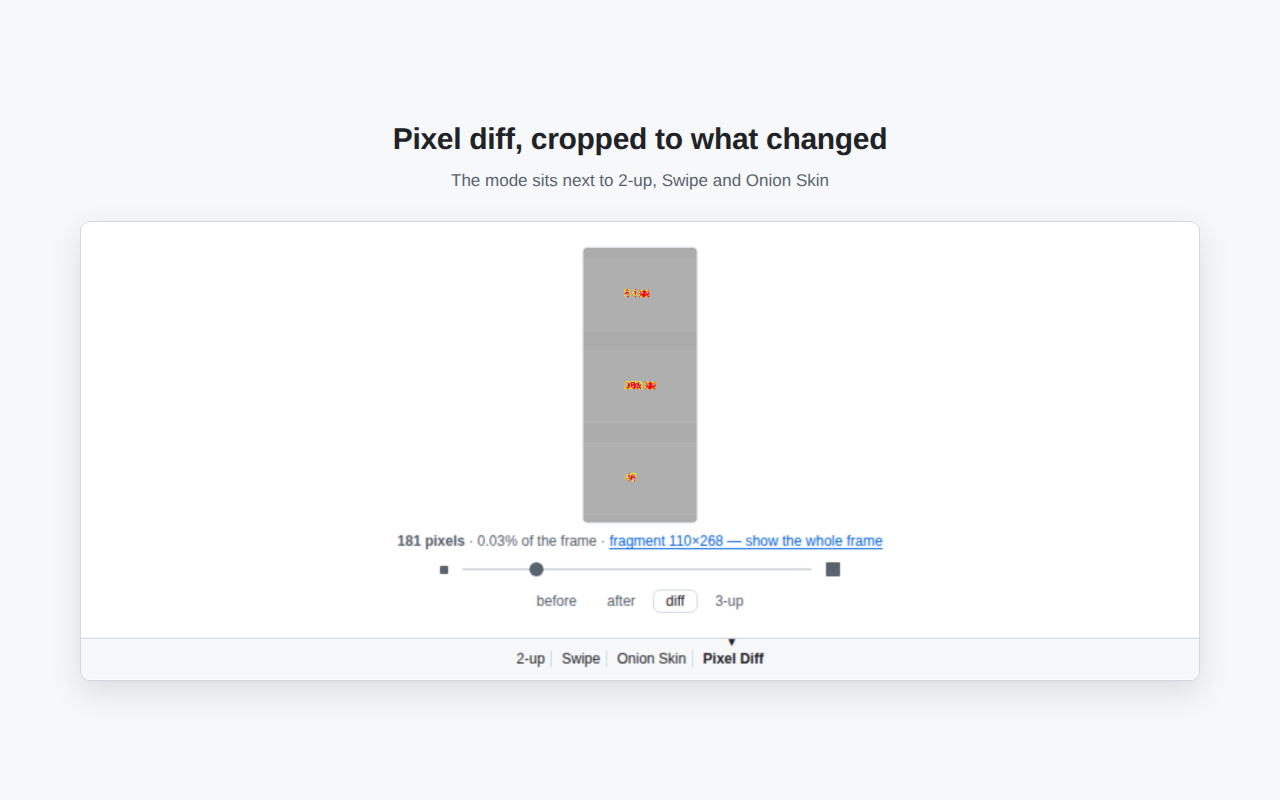
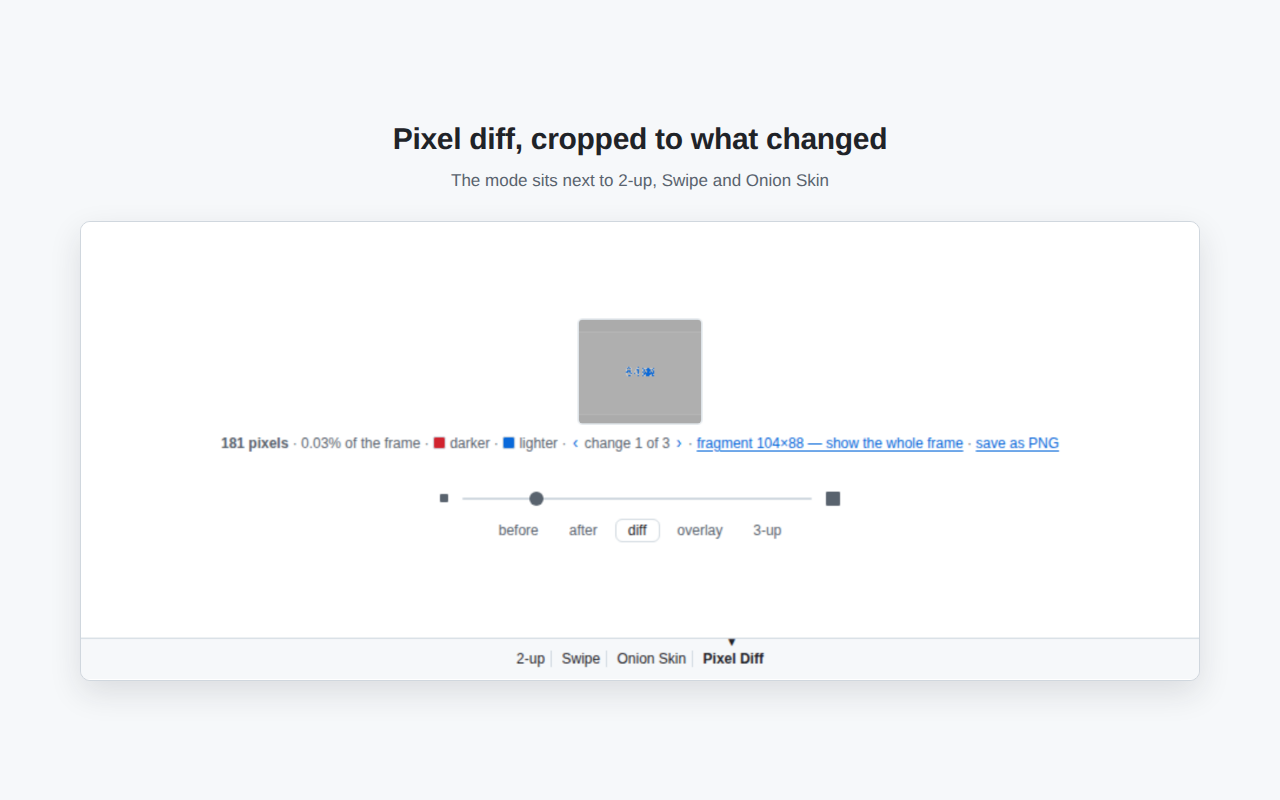
docs: reshoot the screenshots for what the panel does now
The old set predates the overlay, the colour of the direction, walking
between places, saving as a PNG and the settings page — the store showed a
product four features behind. The script had aged with them: it picked the
3-up frame by position, and the switcher had grown a button in front of it,
so "three frames side by side" was quietly shooting the overlay. Frames are
now found by their caption.

The store gets five cards: the crop, the overlay, the three frames, the
settings and the permission. The full frame lost its place to the overlay —
it differs from the first card by a crop, and the five cards should each say
something different.

The settings page is too long to show whole: shrunk to a store card it turns
into an unreadable ribbon, so a section-to-section slice is taken and it
ends on a boundary rather than mid-sentence. Its two add-a-server forms also
looked different for no reason, which reads as two different actions.

diff --git a/src/options/options.css b/src/options/options.css
@@ -56,13 +56,17 @@ button:hover { background: color-mix(in srgb, canvastext 14%, transparent); }
 
 code { font-size: 12px; word-break: break-all; }
 
-#add {
+/* Формы добавления серверов — по одной на вид, и выглядят они одинаково:
+   разный вид одного и того же действия читается как разное действие. */
+#add,
+#add-github {
   display: flex;
   gap: 8px;
   margin: 16px 0 0;
 }
 
-#host {
+#host,
+#host-github {
   font: inherit;
   flex: 1;
   min-width: 0;

diff --git a/README.md b/README.md
@@ -82,6 +82,10 @@ runs in your browser.
 
 ![Three frames side by side](docs/screenshots/frame-3up.png)
 
+The overlay puts the difference straight onto the new version, in full colour:
+
+![The difference over the new version](docs/screenshots/frame-overlay.png)
+
 ## Installation
 
 **Chrome, Edge, any Chromium** — [in the Chrome Web Store][store]. One button,
@@ -175,6 +179,8 @@ toolbar and press **Grant access**. The window is only that — the state of the
 access and a row of links; everything else lives on the settings page.
 
 ![The extension popup](docs/screenshots/popup.png)
+
+![The settings page](docs/screenshots/options.png)
 
 The settings page opens from the same window, by the **Settings** link — and in
 Safari from Settings → Extensions → GitHub Pixel Diff → **Settings**. Next to it
